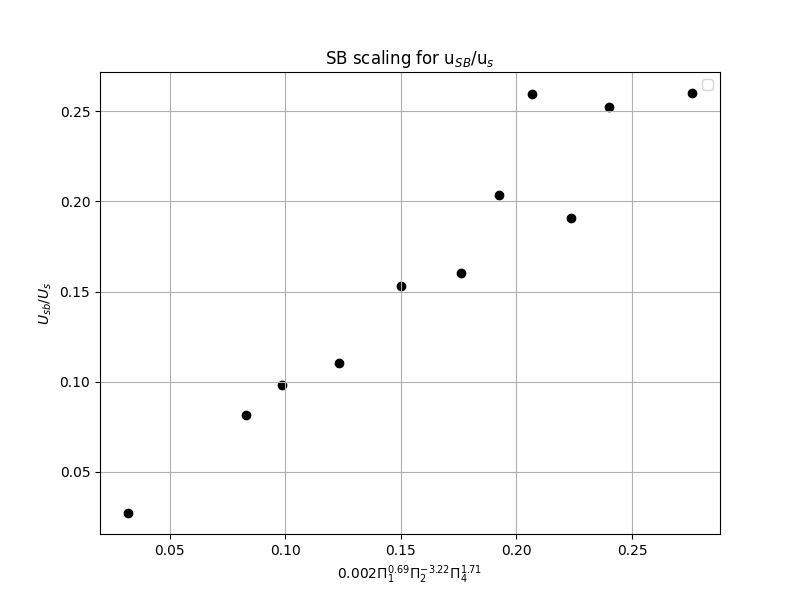
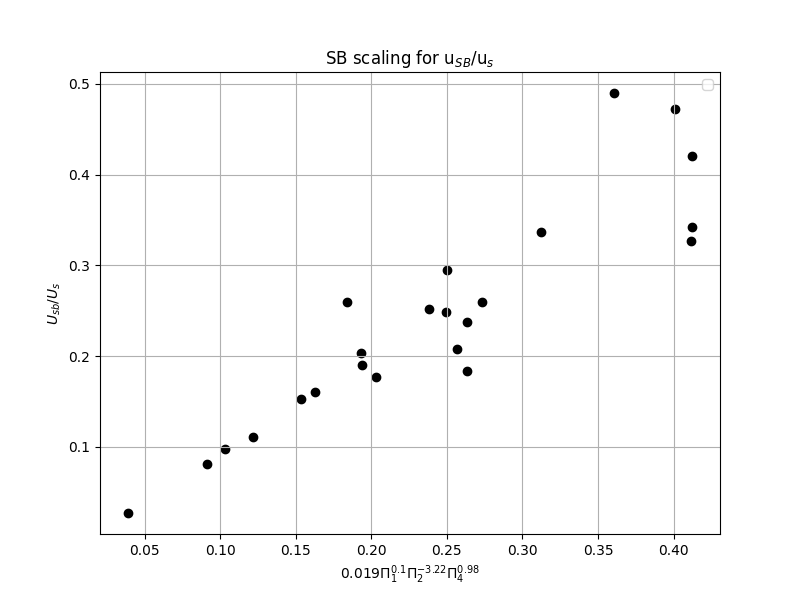
Actualización automática del proyecto y environment.yml

diff --git a/scripts/calculations/SB_scaling.py b/scripts/calculations/SB_scaling.py
@@ -185,7 +185,7 @@ resultados_tiempo = []
 resultados_H = []
 
 # Iterar sobre extensiones de tiempo desde 0 hasta 3 horas (en incrementos de frecuencia de muestreo)
-extensiones = int(3 * 3600 / frecuency_data_seconds)  # Convertir 3 horas en número de pasos
+extensiones = int(4 * 3600 / frecuency_data_seconds)  # Convertir 3 horas en número de pasos
 
 for i in range(0, extensiones + 1):
     # Calcular el índice extendido de t_p
@@ -389,7 +389,7 @@ parameters['theta_grad'] = theta_gradient_all_times
 parameters['u_s'] = (parameters['g'] * parameters['delta_T'])/(parameters['T_0'] * parameters['N'])
 parameters['u_sb'] = df_U_sb.values
 
-SB_scaling_data = parameters[(parameters.index > '2014-07-16 17:00:00') & (parameters.index < '2014-07-16 19:00:00')]
+SB_scaling_data = parameters[(parameters.index > '2014-07-16 16:00:00') & (parameters.index < '2014-07-16 20:00:00')]
 
 SB_scaling_data = SB_scaling_data.copy()
 SB_scaling_data[['g', 'delta_T', 'T_0', 'N', 'H', 'f', 'omega']] = SB_scaling_data[['g', 'delta_T', 'T_0', 'N', 'H', 'f', 'omega']].apply(pd.to_numeric, errors='coerce')
